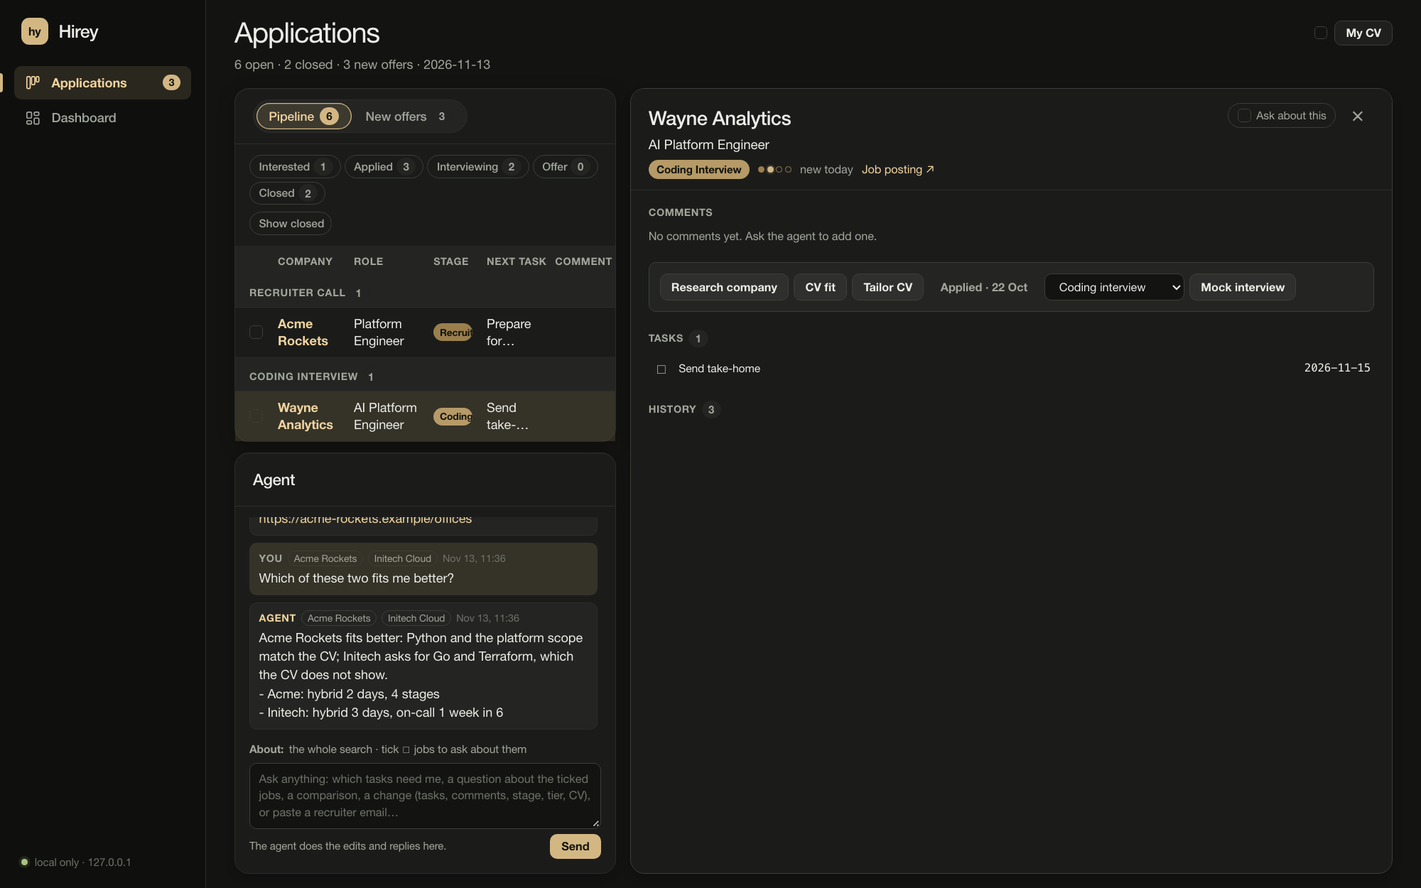
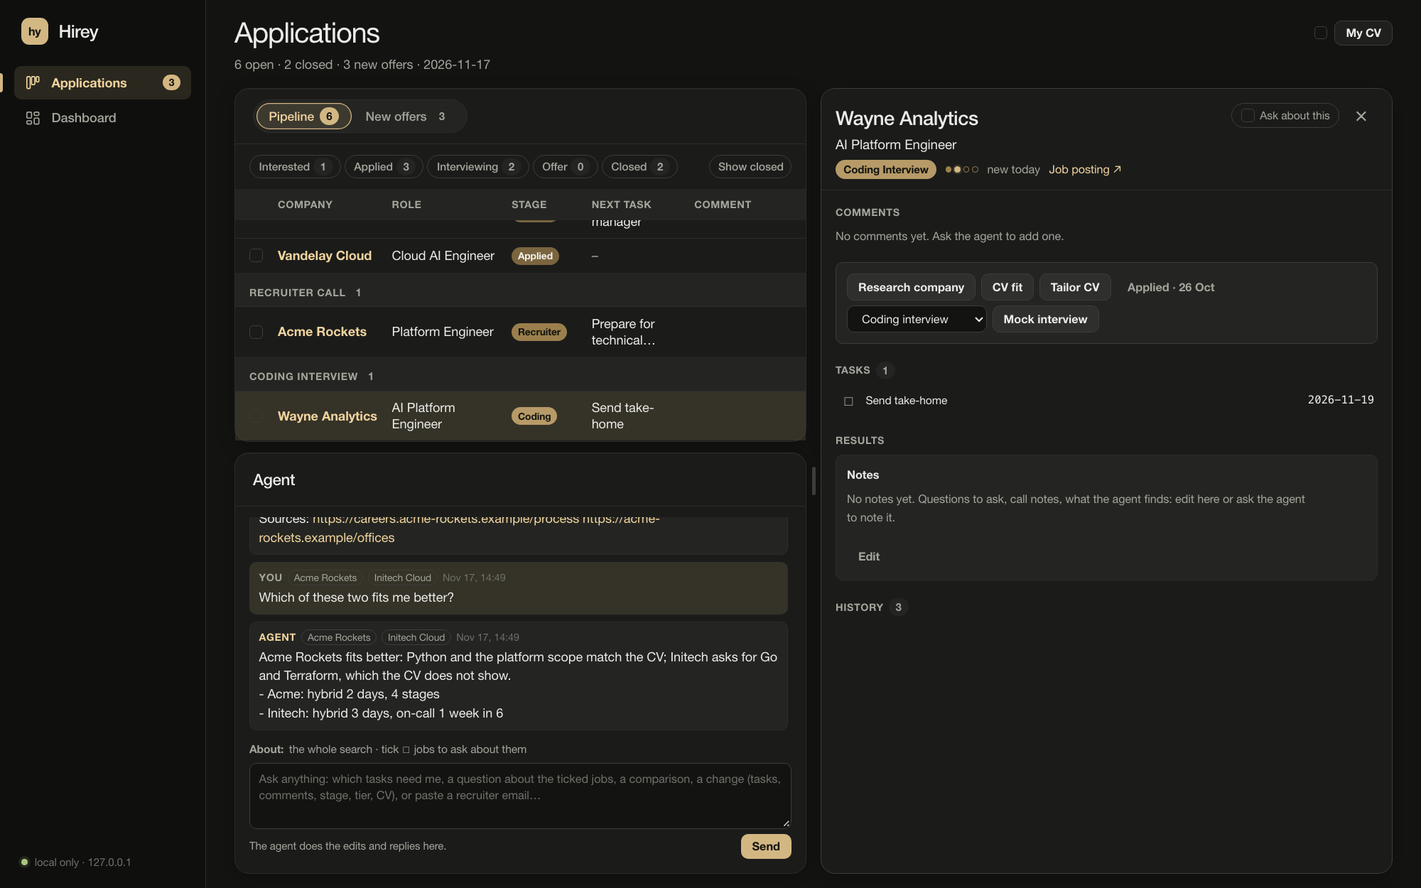
Applications: 50/50 split with a draggable divider
The left column (list + Agent box) and the panel now split half and half
from 801px wide, instead of a third and two thirds from 1600px. A divider
between them (role="separator") is dragged, or moved with the arrow keys,
Home/End, and Enter or a double-click for half and half. Minimum widths are
360px for the list and 420px for the panel. The split is kept per browser
in localStorage. Phones keep the stacked layout; without the script it is
50/50 with no divider.

diff --git a/prep/static/app.js b/prep/static/app.js
@@ -353,6 +353,100 @@
     form.requestSubmit ? form.requestSubmit() : form.submit();
   });
 
+  // --- split between the left column and the panel -------------------------------------------
+  // The divider (.apps-split, a window splitter) moves the boundary: drag it, arrow keys (Shift for
+  // bigger steps), Home / End to the limits, double-click or Enter for half and half. The left
+  // column's share is kept per browser; storage may be blocked, then it is 50/50 on every load.
+  // The share goes into --split-l / --split-r as fr, so the divider's own width comes out of the
+  // rest. Both sides keep a minimum width; where both cannot fit the split stays at half and half.
+  // CSS shows the divider only from 801px wide while a panel is open.
+  const split = document.querySelector(".apps > .apps-split");
+  if (split) {
+    const SPLIT_KEY = "apps-split";
+    const MIN_LEFT = 360;
+    const MIN_PANEL = 420;
+    const container = split.parentElement;
+    let share = 0.5; // the left column's share, as picked (the shown one may be clamped)
+    try {
+      const saved = Number(localStorage.getItem(SPLIT_KEY));
+      if (saved > 0.05 && saved < 0.95) share = saved;
+    } catch { /* not remembered: half and half */ }
+
+    const room = () => container.clientWidth - (split.offsetWidth || 16);
+    function limits() {
+      const width = room();
+      if (width < MIN_LEFT + MIN_PANEL) return [0.5, 0.5];
+      return [MIN_LEFT / width, 1 - MIN_PANEL / width];
+    }
+    function paint() {
+      const [lo, hi] = limits();
+      const shown = Math.min(hi, Math.max(lo, share));
+      container.style.setProperty("--split-l", `${(shown * 100).toFixed(2)}fr`);
+      container.style.setProperty("--split-r", `${((1 - shown) * 100).toFixed(2)}fr`);
+      const pct = Math.round(shown * 100);
+      split.setAttribute("aria-valuenow", String(pct));
+      split.setAttribute("aria-valuemin", String(Math.ceil(lo * 100)));
+      split.setAttribute("aria-valuemax", String(Math.floor(hi * 100)));
+      split.setAttribute("aria-valuetext", `List ${pct}%, panel ${100 - pct}%`);
+      split.classList.toggle("is-fixed", lo === hi);
+      return shown;
+    }
+    function save() {
+      try {
+        if (Math.abs(share - 0.5) < 0.005) localStorage.removeItem(SPLIT_KEY);
+        else localStorage.setItem(SPLIT_KEY, share.toFixed(4));
+      } catch { /* not remembered */ }
+    }
+    function setShare(next, { keep = true } = {}) {
+      share = next;
+      share = paint(); // what is shown is what is kept (within the limits)
+      if (keep) save();
+    }
+
+    split.addEventListener("pointerdown", (e) => {
+      if (e.button !== 0 || split.classList.contains("is-fixed")) return;
+      e.preventDefault(); // no text selection while dragging
+      split.focus({ preventScroll: true }); // then the arrow keys go on from here
+      split.setPointerCapture(e.pointerId);
+      split.classList.add("is-dragging");
+      document.body.classList.add("is-resizing");
+    });
+    split.addEventListener("pointermove", (e) => {
+      if (!split.hasPointerCapture(e.pointerId)) return;
+      const box = container.getBoundingClientRect();
+      setShare((e.clientX - box.left - split.offsetWidth / 2) / room(), { keep: false });
+    });
+    const endDrag = (e) => {
+      if (!split.hasPointerCapture(e.pointerId)) return;
+      split.releasePointerCapture(e.pointerId);
+      split.classList.remove("is-dragging");
+      document.body.classList.remove("is-resizing");
+      save();
+    };
+    split.addEventListener("pointerup", endDrag);
+    split.addEventListener("pointercancel", endDrag);
+    // Where both sides cannot fit their minimum the split is fixed; the share picked on a wider
+    // window is left alone.
+    split.addEventListener("dblclick", () => { if (!split.classList.contains("is-fixed")) setShare(0.5); });
+    split.addEventListener("keydown", (e) => {
+      if (e.metaKey || e.ctrlKey || e.altKey || split.classList.contains("is-fixed")) return;
+      const step = e.shiftKey ? 0.1 : 0.02;
+      const [lo, hi] = limits();
+      const next = { ArrowLeft: share - step, ArrowRight: share + step, Home: lo, End: hi, Enter: 0.5 }[e.key];
+      if (next === undefined) return;
+      e.preventDefault();
+      e.stopPropagation();
+      setShare(next);
+    });
+    // A narrower window may push the shown split into a limit; the picked share is kept.
+    let resizeFrame = 0;
+    window.addEventListener("resize", () => {
+      cancelAnimationFrame(resizeFrame);
+      resizeFrame = requestAnimationFrame(paint);
+    });
+    paint();
+  }
+
   // --- Applications ---------------------------------------------------------------------
   // The server renders every state from the query string (?view=, ?app=ID or ?job=ID side panel,
   // the filters), so this only adds: a panel opens without a reload, Esc closes it, and after any

diff --git a/prep/static/style.css b/prep/static/style.css
@@ -379,13 +379,31 @@ progress::-moz-progress-bar { background: var(--accent); border-radius: var(--ra
 @keyframes toast-in { from { opacity: 0; transform: translateY(8px); } to { opacity: 1; transform: none; } }
 
 /* --- applications ----------------------------------------------------------------
-   The pipeline list on the left, the side panel for one application on the right: halves on
-   laptops, a third and two thirds from 1600px, a full-screen sheet on phones. List rows are links,
-   so they open the panel without the script. */
+   The pipeline list on the left, the side panel for one application on the right: halves from
+   laptops up, a full-screen sheet on phones. With the script a divider between them (.apps-split)
+   moves the split: app.js sets --split-l / --split-r (fr, so the divider comes out of the rest).
+   Each child has its own column, so the panel never drops into the divider's track when the
+   divider is hidden. List rows are links, so they open the panel without the script. */
 main:has(.apps) { max-width: 1880px; }
 .apps { display: grid; grid-template-columns: minmax(0, 1fr); gap: var(--space-4); align-items: start; }
-.apps:has(> .panel) { grid-template-columns: minmax(0, 1fr) minmax(0, 1fr); }
-@media (min-width: 1600px) { .apps:has(> .panel) { grid-template-columns: minmax(0, 1fr) minmax(0, 2fr); } }
+.apps-split { display: none; }
+@media (min-width: 801px) {
+  .apps:has(> .panel) { column-gap: 0; grid-template-columns: minmax(0, var(--split-l, 1fr)) var(--space-4) minmax(0, var(--split-r, 1fr)); }
+  .apps:has(> .panel) > .apps-main { grid-column: 1; }
+  .apps:has(> .panel) > .panel { grid-column: 3; }
+  .has-js .apps:has(> .panel) > .apps-split { display: block; grid-column: 2; position: relative; cursor: col-resize;
+    touch-action: none; border-radius: var(--radius-sm); }
+  .apps-split::before { content: ""; position: absolute; top: 0; bottom: 0; left: 50%; width: 2px; margin-left: -1px;
+    border-radius: 1px; background: transparent; transition: background-color .12s; }
+  .apps-split:hover::before, .apps-split.is-dragging::before { background: var(--border-strong); }
+  .apps-split:focus-visible { outline: none; }
+  .apps-split:focus-visible::before { background: var(--accent); }
+  .apps-split::after { content: ""; position: absolute; top: 50%; left: 50%; width: 4px; height: 32px; margin: -16px 0 0 -2px;
+    border-radius: 2px; background: var(--border-strong); }
+  body.is-resizing { cursor: col-resize; user-select: none; }
+  .apps-split.is-fixed { cursor: default; }
+  .apps-split.is-fixed::after { display: none; }
+}
 .apps-main { min-width: 0; display: grid; gap: var(--space-4); }
 .card-pipeline > .card-body { padding: var(--space-4) 0 0; display: grid; grid-template-columns: minmax(0, 1fr); gap: var(--space-3); }
 .card-pipeline .stage-strip { padding: 0 var(--space-4); gap: var(--space-2); }
@@ -693,6 +711,8 @@ form.ask textarea::placeholder { color: var(--text-faint); }
 /* --- responsive ---------------------------------------------------------------- */
 @media (min-width: 801px) and (max-width: 1599px) {
   main { padding-left: var(--space-6); padding-right: var(--space-6); }
+}
+@media (min-width: 801px) {
   .apps:has(> .panel) .panel-body, .apps:has(> .panel) .panel-head { padding-left: var(--space-4); padding-right: var(--space-4); }
 }
 @media (max-width: 800px) {

diff --git a/tests/test_web.py b/tests/test_web.py
@@ -791,6 +791,33 @@ class LandingPageTest(WebTestCase):
         self.assertIn('localStorage.getItem(SEL_KEY)', js)  # the ticked jobs come back too
         self.assertIn("try { localStorage.setItem(VIEW_KEY, tab.dataset.view); } catch", js)
 
+    def test_split_divider_between_the_list_and_the_panel(self) -> None:
+        # Rendered on every Applications page (the script may open a panel later), between the
+        # left column and the panel; never on the Dashboard. No inline style (CSP).
+        for path in ("/", "/?app=3", "/?view=offers&job=" + quote(GLOBEX, safe="")):
+            body = self.get(path)[2]
+            self.assertEqual(body.count('class="apps-split"'), 1, path)
+            main_at = body.index('<div class="apps-main" id="apps-main">')
+            self.assertLess(main_at, body.index('class="apps-split"'))
+            if "app=" in path or "job=" in path:
+                self.assertLess(body.index('class="apps-split"'), body.index('id="panel"'))
+        split = web.SPLIT_HANDLE
+        for attr in ('role="separator"', 'aria-orientation="vertical"', 'aria-controls="apps-main"',
+                     'tabindex="0"', 'aria-valuenow="50"', "aria-label="):
+            self.assertIn(attr, split)
+        self.assertNotIn("style=", split)
+        self.assertNotIn("apps-split", self.get("/dashboard")[2])
+
+    def test_split_is_remembered_by_the_script(self) -> None:
+        js = self.get("/static/app.js")[2]
+        self.assertIn('const SPLIT_KEY = "apps-split";', js)
+        self.assertIn("localStorage.getItem(SPLIT_KEY)", js)
+        self.assertIn("localStorage.removeItem(SPLIT_KEY)", js)  # back to 50/50: the default, not stored
+        self.assertIn('container.style.setProperty("--split-l"', js)  # CSSOM, allowed by the CSP
+        css = self.get("/static/style.css")[2]
+        self.assertIn("minmax(0, var(--split-l, 1fr))", css)  # half and half by default
+        self.assertNotIn("minmax(0, 2fr)", css)
+
     def test_new_offers_without_javascript(self) -> None:
         body = self.get("/?view=offers")[2]
         form = body[body.index('class="offer-filters"'):]

diff --git a/prep/web.py b/prep/web.py
@@ -1142,6 +1142,14 @@ def _description(text: str) -> str:
     return "".join(out)
 
 
+# The divider between the left column and the panel (a window splitter). Rendered on every
+# Applications page, since the script may open a panel later; CSS shows it only with the script,
+# from 801px wide and while a panel is open. app.js drags it and keeps the width per browser.
+SPLIT_HANDLE = ('<div class="apps-split" role="separator" aria-orientation="vertical" aria-controls="apps-main" '
+                'aria-label="Resize the list and the panel" aria-valuemin="0" aria-valuemax="100" aria-valuenow="50" '
+                'tabindex="0" title="Drag to resize · double-click for half and half"></div>')
+
+
 def _skip_dialog() -> str:
     """The Skip pop-up: one button per reason and an optional comment. The clicked Skip link names
     where it posts and which field it fills (`data-skip-action` and `data-skip-field`: /offers/skip
@@ -1296,7 +1304,8 @@ def home_page(settings: Settings, conn: sqlite3.Connection, today: str,
     else:
         panel = ""
     agent = _agent_box(conn, settings, f, targets)
-    content = (f'<div class="apps"><div class="apps-main">{list_card}{agent}</div>{panel}</div>' + _skip_dialog())
+    content = (f'<div class="apps"><div class="apps-main" id="apps-main">{list_card}{agent}</div>{SPLIT_HANDLE}{panel}</div>'
+               + _skip_dialog())
     new = f" · {offers} new offer{'s' if offers != 1 else ''}" if offers is not None else ""
     my_cv = (f'<div class="page-head-actions">{_sel_tick(f, "cv", "my CV")}'
              f'<a class="btn btn-secondary btn-sm my-cv" href="{h(home_url(f, cv=True))}" '

diff --git a/docs/how-it-works.md b/docs/how-it-works.md
@@ -617,7 +617,7 @@ that changes nothing until posted, and every form posts normally and redirects.
 | Research file `/research/file?app=ID&kind=research\|cv_fit\|tailor[&v=N]` | the application's company profile, CV fit file or tailored CV (the latest, or version N), read-only: front matter as a table (any pay/salary key left out) and the body as minimal Markdown (headings, lists, paragraphs, all escaped). Only a path recorded in prep.db that resolves inside `private_dir` is read; anything else (no record, no `private_dir`, a path outside it) is a 404. A missing file shows "File missing" | — |
 | Tailored CV PDF `/research/pdf?app=ID&v=N` | the PDF beside tailored version N (`cvpdf.pdf_path`), inline as `application/pdf`. Only for a version recorded in prep.db whose `.pdf` resolves inside `private_dir` and exists; anything else is a 404. Sent with its own headers (`PDF_HEADERS`: `frame-ancestors 'none'`, nosniff, no-store) | — |
 | My CV `/?cv=1` | the master CV panel (step 20), opened by **My CV** in the page header; `cv=1` wins over `app`/`job` and a row link clears it. Skills as chips per theme, cv.md rendered, History (vN, time, note, current badge, Open `v=N`, Compare `compare=N` as a line diff against cv.md, Restore) | POST `/cv/restore` (`version`; JSON `{version, previous}`, Undo restores `previous`) |
-| Applications `/` (Pipeline view) | a switch at the top of the left column, Pipeline N · New offers M (`view=pipeline\|offers`, links), then the pipeline list with the Agent box under it (step 15: one conversation, newest at the bottom, kept line breaks, http(s) URLs made into links after escaping, each message tagged with its application, its job offer, its targets (a comparison) or "all jobs", "Agent is working…" while one is pending with an assistant configured, "Waiting for the agent: run /ask…" without one, the "About:" chips of the ticked jobs with Clear all, and a textarea with Send; each list row starts with its ☐ tick), and the side panel for one application on the right: halves from 801 to 1599px wide, a third and two thirds from 1600px, a full-screen sheet up to 800px. From 801px the page is exactly the viewport's height and does not scroll: the list card takes at most 45% of the left column and scrolls its rows inside while the switch, the stage strip or offer filters and the column headings stay, the Agent box fills the rest with its messages scrolling and its input always in view, and the panel scrolls inside. Up to 800px everything stacks. The page state is in the query string, so every view renders without the script: `app=ID` opens the panel (an unknown id is ignored; it wins over `job=`), `stage=interested\|applied\|interviewing\|offer\|closed` filters (`web.STAGE_GROUPS`; the four interview stages share Interviewing), `closed=1` lists the closed applications too (Show closed / Hide closed); unknown values and an old `view=board` are ignored. A stage strip shows the count per group and links to each filter (the active one clears it). The list (`web._app_list`) is one table with a `<tbody>` per stored stage in pipeline order (`web.PIPELINE_STAGES`, then `web.CLOSED_LANE` when shown), each with a header row and its count; within a stage, dated next tasks first (earliest first), then undated, then none, ties by days in stage (`web.list_order`). Columns: Company (a link to the panel), Role, Stage (a short label such as Coding or Sys design, the full one on hover: `web.LIST_STAGE_LABELS`), Next task and Comment (the latest, one line, with "+N" when there are more); an Interested or Applied row whose getjo job has closed or expired shows a "closed" badge under the role (step 19); company, role and next task wrap to two lines at most. No board, no drag and drop, no due, days, fit or tier columns. The panel, top to bottom: the header (company, role, stage badge with interview step dots, "N days in this stage", the job posting link, the "closed" badge when it applies, the "Ask about this" tick, ✕ to the same view without `app`); the job brief or the readable description with Write brief (step 21; only with a getjo job); the latest comment (step 8) with the number of earlier ones, read-only; the shortcut row (`web._shortcuts`): Research company, CV fit and Tailor CV queue a request (`/applications/research`), show "Researching…" / "Checking CV fit…" / "Tailoring…" while it is open, and once there is a result link to its card ("Research ✓ 2 Nov", "CV fit 4/5", "CV v2 · sent"); Mark applied and Skip while Interested (step 17), afterwards a disabled "Applied · 3 Nov" or "Skipped"; Tasks, each with a ☐ tick that posts `/tasks/done`; Results, always shown: first the Notes card (step 25; Edit, Save, Cancel), then one card per result with Open and Redo (company research with its tier and reason, CV fit with its top gaps, Tailored CV listing every version newest first with its date, Open (`kind=tailor&v=N`) and a "sent" badge on the sent one; Redo there reads "New from cv.md"); and History, the stage changes newest first in a collapsed `<details>`. The panel has no other forms but Notes: tasks, comments, stage, interview dates, tier and the sent CV are changed by the agent through the Agent box; the Mock interview control (step 24) only starts a mock there. `/applications` and `/tasks` redirect here with their query | POST `/applications/apply`, `/applications/unapply`, `/applications/skip`, `/applications/research`, `/applications/message`, `/applications/mock` (step 24), `/applications/notes` (step 25: `app_id`, `stamp`, `notes`; JSON `html` is the Notes card; a stale stamp is a 400 with `html` and the new `stamp`) (redirect to `/?app=ID`; a panel form's `return` for the same application keeps its `stage` and `closed`; `/applications/message` takes `app_id` or `job_id`), `/tasks/done`, `/tasks/reopen`. `/applications/message` answers JSON with the thread's `html`. GET `/applications/skip?app=ID` is the no-script Skip form. GET `/applications/thread[?app=ID]` is JSON for polling: `{ok, pending, status, messages, html}` (404 for an unknown id; `status` is the open panel's application's, null without one; `messages` is the conversation's count, so the script can tell a reply from finished work; `html` is the Agent box's conversation); `pending` is true while any message waits or (with `app`) an agent request for that application is open |
+| Applications `/` (Pipeline view) | a switch at the top of the left column, Pipeline N · New offers M (`view=pipeline\|offers`, links), then the pipeline list with the Agent box under it (step 15: one conversation, newest at the bottom, kept line breaks, http(s) URLs made into links after escaping, each message tagged with its application, its job offer, its targets (a comparison) or "all jobs", "Agent is working…" while one is pending with an assistant configured, "Waiting for the agent: run /ask…" without one, the "About:" chips of the ticked jobs with Clear all, and a textarea with Send; each list row starts with its ☐ tick), and the side panel for one application on the right: half and half from 801px wide with a divider between them (`web.SPLIT_HANDLE`, a `role="separator"` that `app.js` drags or moves with the arrow keys, Home/End and Enter or a double-click for half and half; minimum 360px list, 420px panel; kept per browser in `localStorage` as `apps-split` and applied as the `--split-l`/`--split-r` grid fractions; shown only with the script, from 801px and while a panel is open), a full-screen sheet up to 800px. From 801px the page is exactly the viewport's height and does not scroll: the list card takes at most 45% of the left column and scrolls its rows inside while the switch, the stage strip or offer filters and the column headings stay, the Agent box fills the rest with its messages scrolling and its input always in view, and the panel scrolls inside. Up to 800px everything stacks. The page state is in the query string, so every view renders without the script: `app=ID` opens the panel (an unknown id is ignored; it wins over `job=`), `stage=interested\|applied\|interviewing\|offer\|closed` filters (`web.STAGE_GROUPS`; the four interview stages share Interviewing), `closed=1` lists the closed applications too (Show closed / Hide closed); unknown values and an old `view=board` are ignored. A stage strip shows the count per group and links to each filter (the active one clears it). The list (`web._app_list`) is one table with a `<tbody>` per stored stage in pipeline order (`web.PIPELINE_STAGES`, then `web.CLOSED_LANE` when shown), each with a header row and its count; within a stage, dated next tasks first (earliest first), then undated, then none, ties by days in stage (`web.list_order`). Columns: Company (a link to the panel), Role, Stage (a short label such as Coding or Sys design, the full one on hover: `web.LIST_STAGE_LABELS`), Next task and Comment (the latest, one line, with "+N" when there are more); an Interested or Applied row whose getjo job has closed or expired shows a "closed" badge under the role (step 19); company, role and next task wrap to two lines at most. No board, no drag and drop, no due, days, fit or tier columns. The panel, top to bottom: the header (company, role, stage badge with interview step dots, "N days in this stage", the job posting link, the "closed" badge when it applies, the "Ask about this" tick, ✕ to the same view without `app`); the job brief or the readable description with Write brief (step 21; only with a getjo job); the latest comment (step 8) with the number of earlier ones, read-only; the shortcut row (`web._shortcuts`): Research company, CV fit and Tailor CV queue a request (`/applications/research`), show "Researching…" / "Checking CV fit…" / "Tailoring…" while it is open, and once there is a result link to its card ("Research ✓ 2 Nov", "CV fit 4/5", "CV v2 · sent"); Mark applied and Skip while Interested (step 17), afterwards a disabled "Applied · 3 Nov" or "Skipped"; Tasks, each with a ☐ tick that posts `/tasks/done`; Results, always shown: first the Notes card (step 25; Edit, Save, Cancel), then one card per result with Open and Redo (company research with its tier and reason, CV fit with its top gaps, Tailored CV listing every version newest first with its date, Open (`kind=tailor&v=N`) and a "sent" badge on the sent one; Redo there reads "New from cv.md"); and History, the stage changes newest first in a collapsed `<details>`. The panel has no other forms but Notes: tasks, comments, stage, interview dates, tier and the sent CV are changed by the agent through the Agent box; the Mock interview control (step 24) only starts a mock there. `/applications` and `/tasks` redirect here with their query | POST `/applications/apply`, `/applications/unapply`, `/applications/skip`, `/applications/research`, `/applications/message`, `/applications/mock` (step 24), `/applications/notes` (step 25: `app_id`, `stamp`, `notes`; JSON `html` is the Notes card; a stale stamp is a 400 with `html` and the new `stamp`) (redirect to `/?app=ID`; a panel form's `return` for the same application keeps its `stage` and `closed`; `/applications/message` takes `app_id` or `job_id`), `/tasks/done`, `/tasks/reopen`. `/applications/message` answers JSON with the thread's `html`. GET `/applications/skip?app=ID` is the no-script Skip form. GET `/applications/thread[?app=ID]` is JSON for polling: `{ok, pending, status, messages, html}` (404 for an unknown id; `status` is the open panel's application's, null without one; `messages` is the conversation's count, so the script can tell a reply from finished work; `html` is the Agent box's conversation); `pending` is true while any message waits or (with `app`) an agent request for that application is open |
 
 Without JavaScript, forms post and then redirect (303) back to the page (forms carry a `return`
 field so the redirect keeps the view, filters and panel; it is accepted only for `/`, or an old

diff --git a/docs/usage.md b/docs/usage.md
@@ -141,8 +141,13 @@ charts are server-rendered SVG):
   the agent tagged with that job, and follows the job into its application if it is marked
   Interested. Decided jobs also drop out of `/today`.
 - **Pipeline** (the default view of `/`): the pipeline list on the left with
-  the Agent box under it (below), and the selected application on the right (halves on a
-  laptop, a third and two thirds from 1600px wide, a full-screen sheet on phones). On a laptop the page fits the screen: the list (at most
+  the Agent box under it (below), and the selected application on the right (half and half
+  from 801px wide, a full-screen sheet on phones). A divider between the two columns moves the
+  split: drag it, or focus it (Tab) and use ←/→ (Shift for bigger steps), Home/End for the
+  limits, Enter or a double-click for half and half again. Each side keeps a minimum width (360px
+  for the list, 420px for the panel); where both do not fit, the split stays at half and half. The
+  width is remembered per browser (`localStorage`); without the script, or with storage blocked,
+  it is half and half. On a laptop the page fits the screen: the list (at most
   45% of the left column) scrolls inside with its stage filters and headings kept, and the Agent
   box's input is always in view. The list is grouped by stage (Interested → Applied →
   Recruiter call → Coding interview → System design → Company interview → Offer) with the
